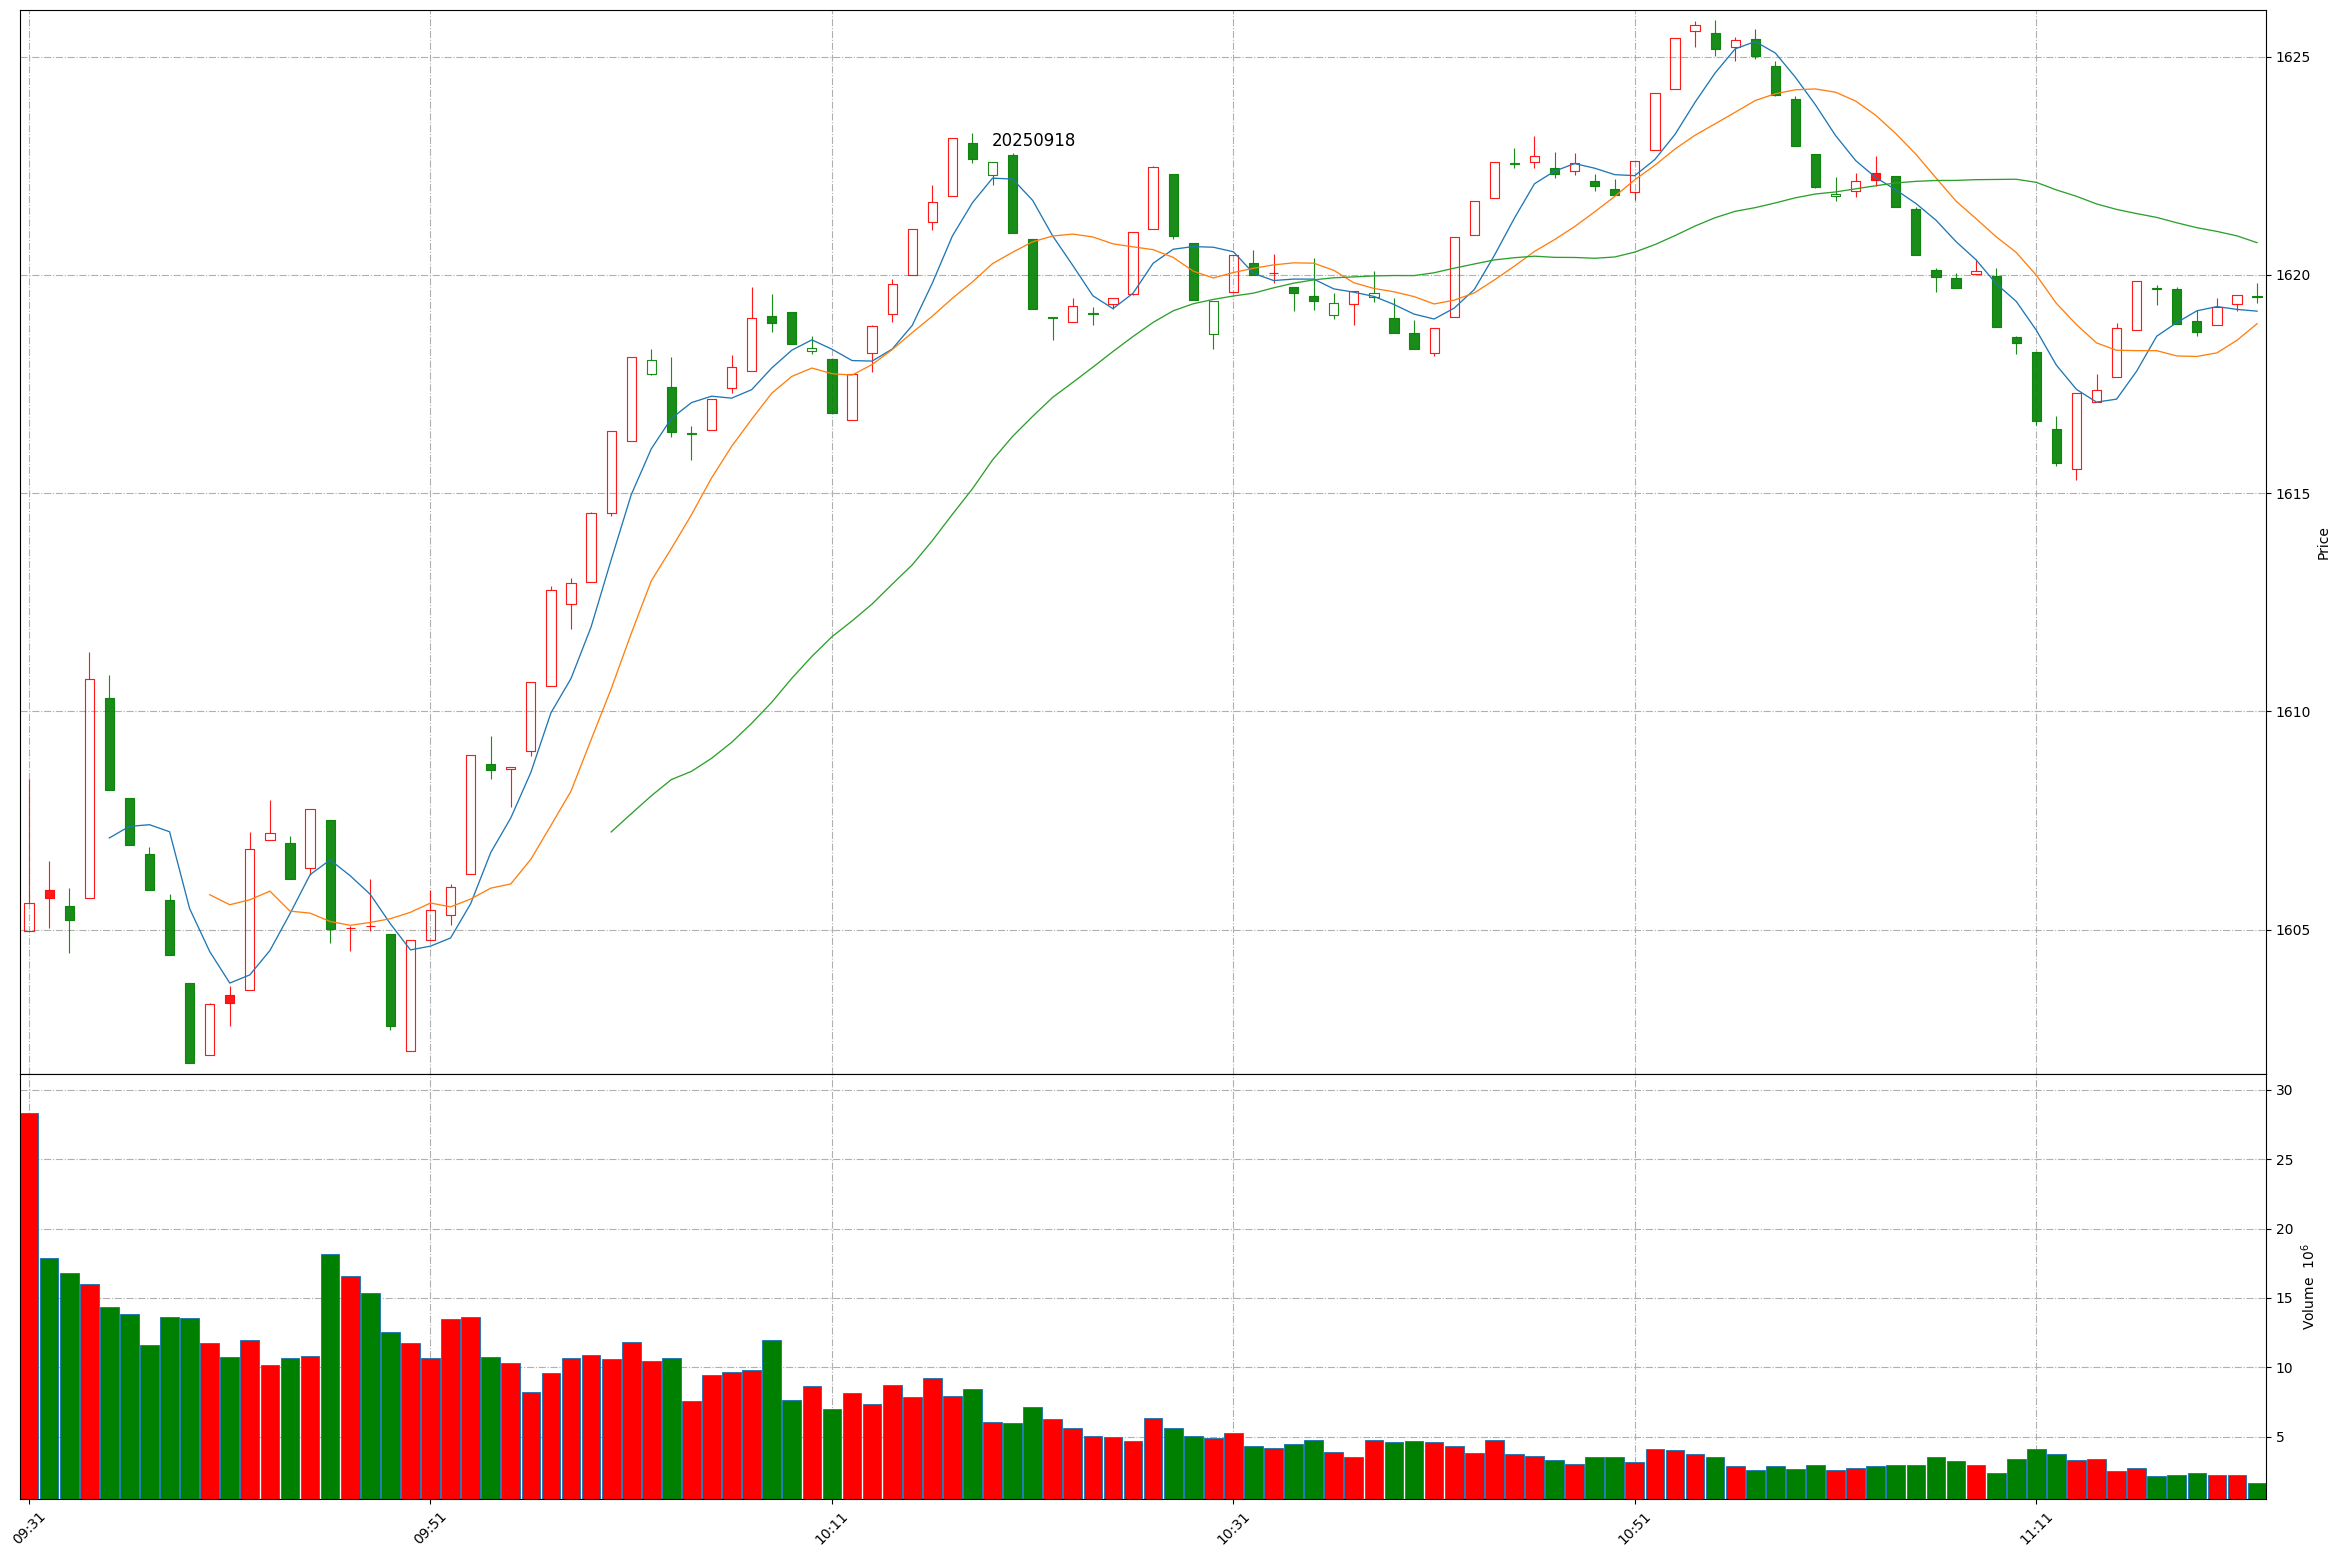
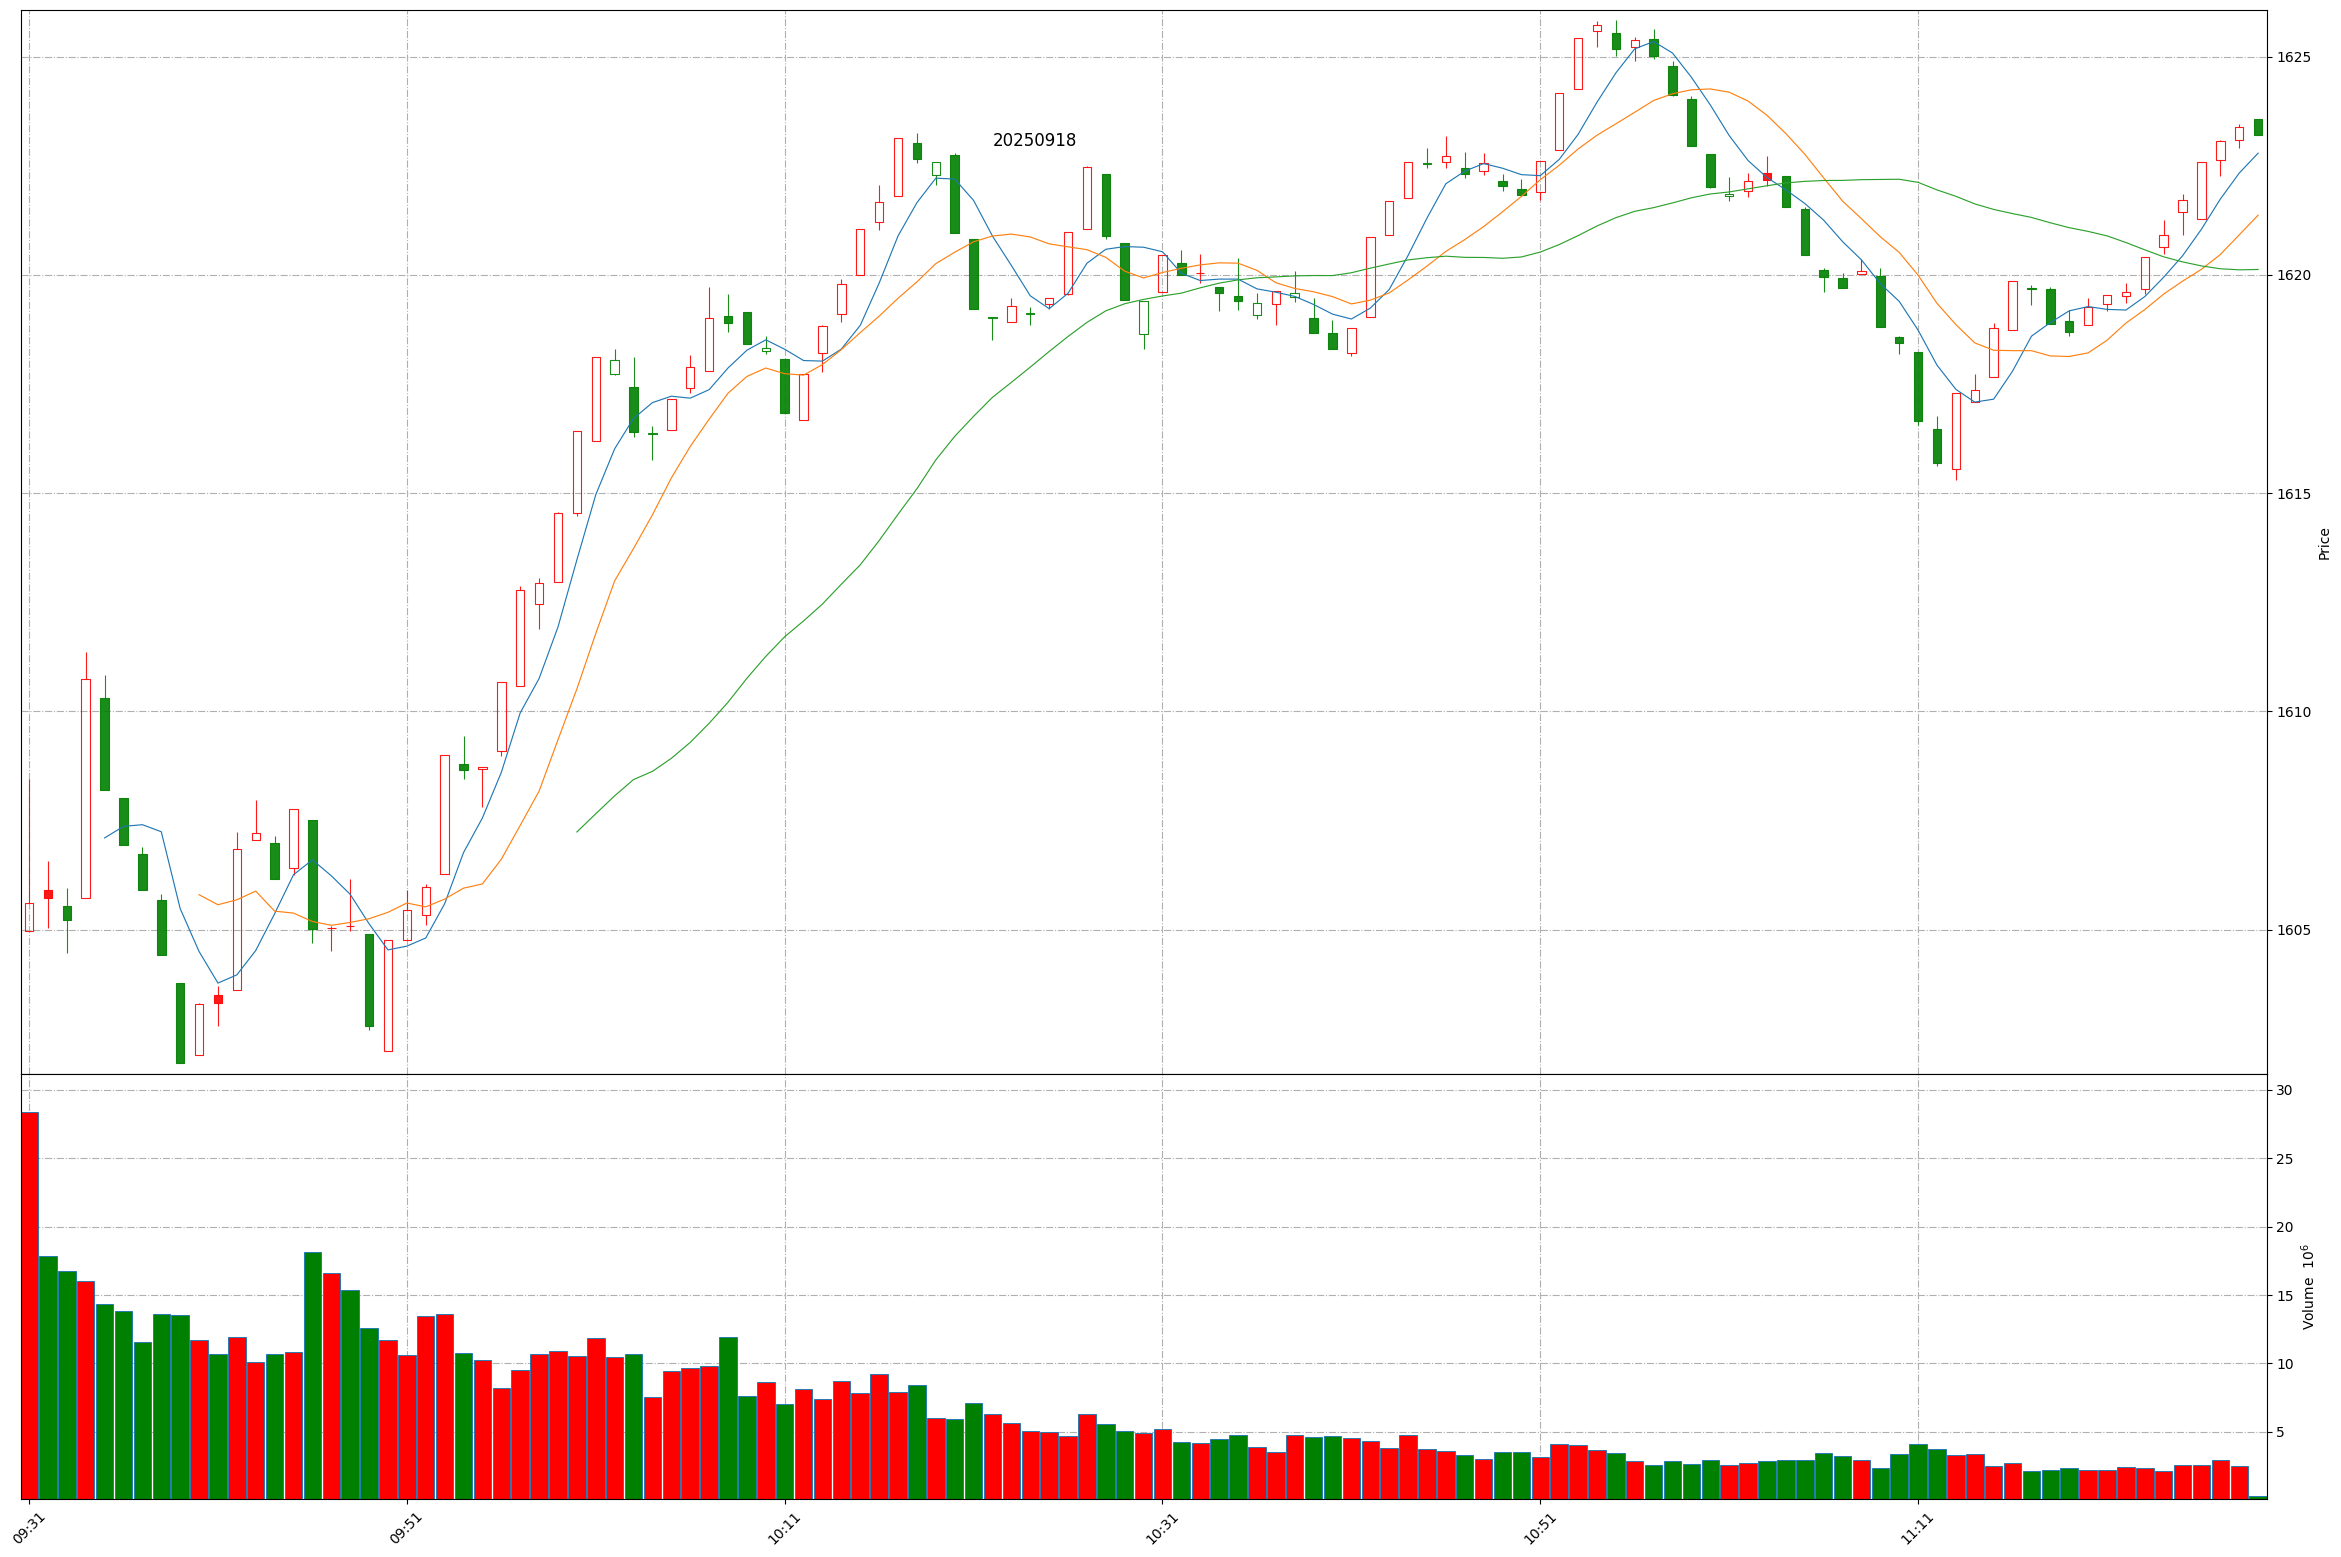
Github action update at 2025-09-18 11:28:14.

diff --git a/README.md b/README.md
@@ -1,11 +1,11 @@
 
 # Daily-A-share-market-quotes 每日 A 股指数（5min 更新）- 20250918
 
-### 上证指数 20250918 11:21
+### 上证指数 20250918 11:28
 ![](./fig/2025/9/20250918-sh000001.png)
 
-### 深证成指 20250918 11:21
+### 深证成指 20250918 11:28
 ![](./fig/2025/9/20250918-sz399001.png)
 
-### 北证50 20250918 11:21
+### 北证50 20250918 11:28
 ![](./fig/2025/9/20250918-bj899050.png)
